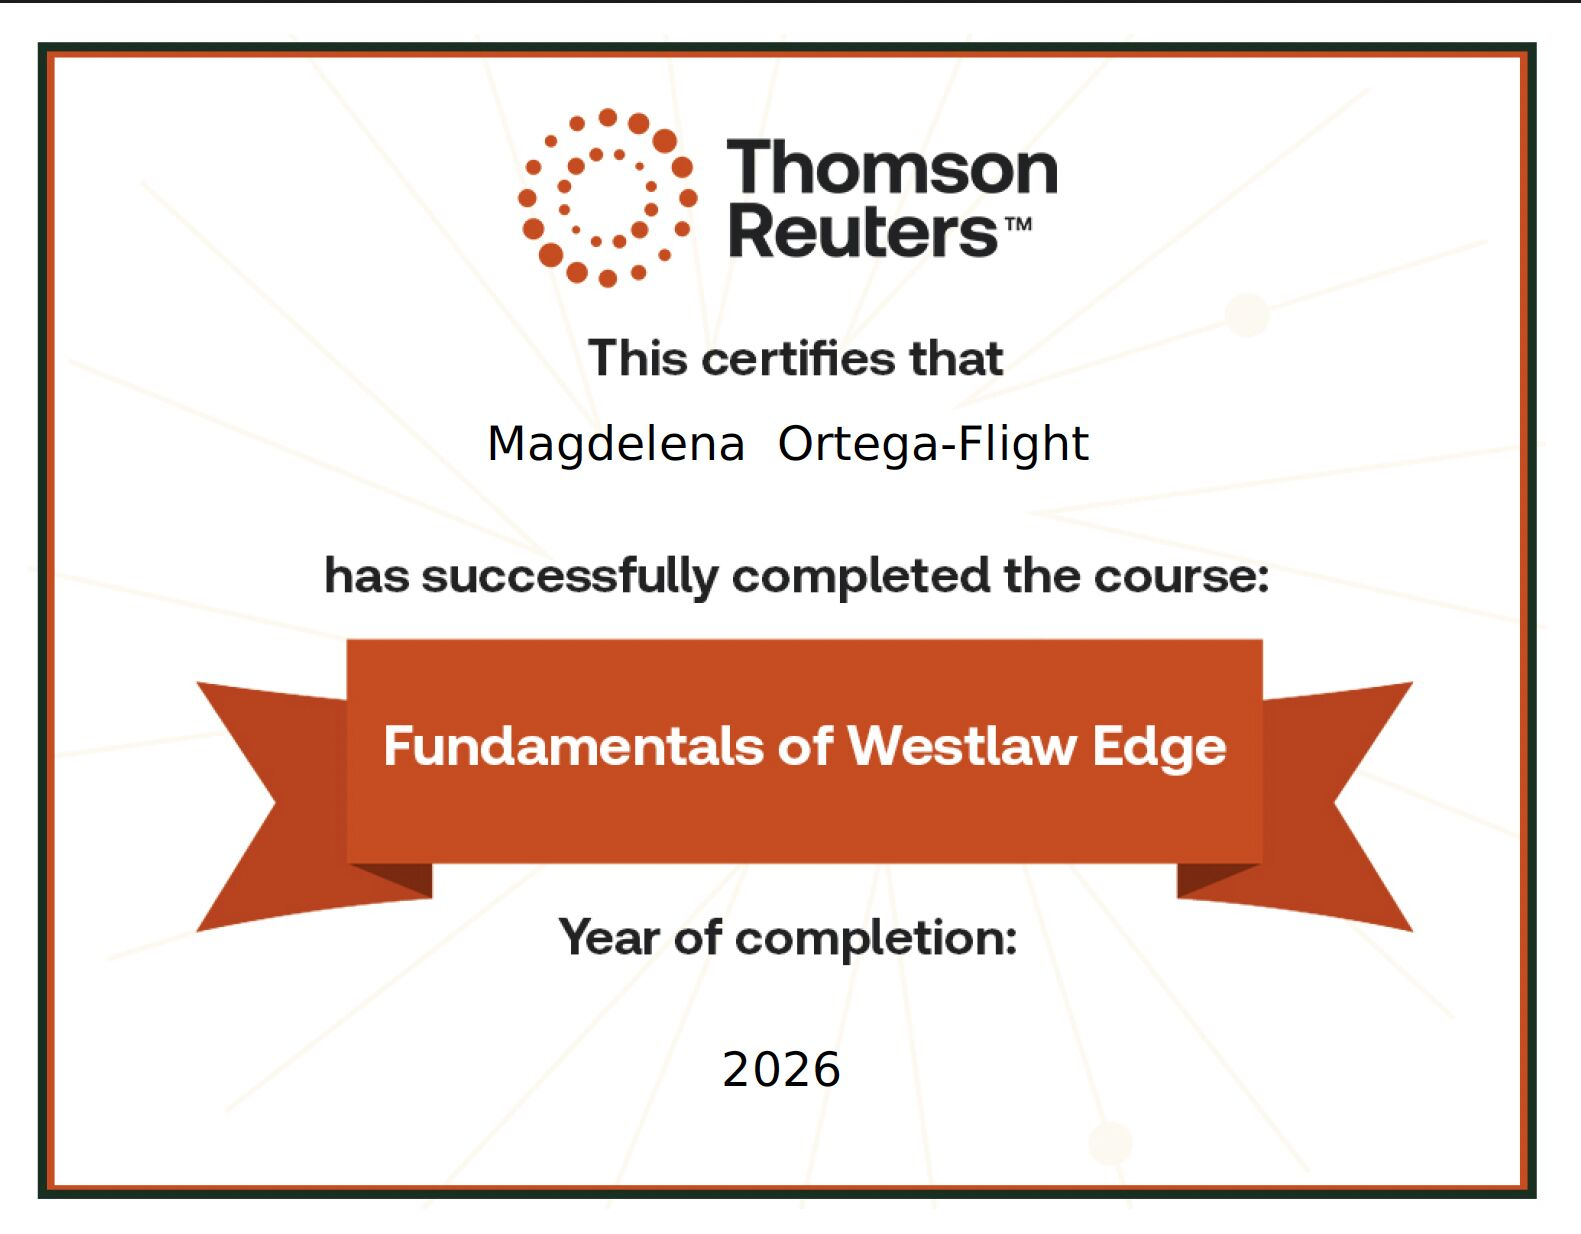
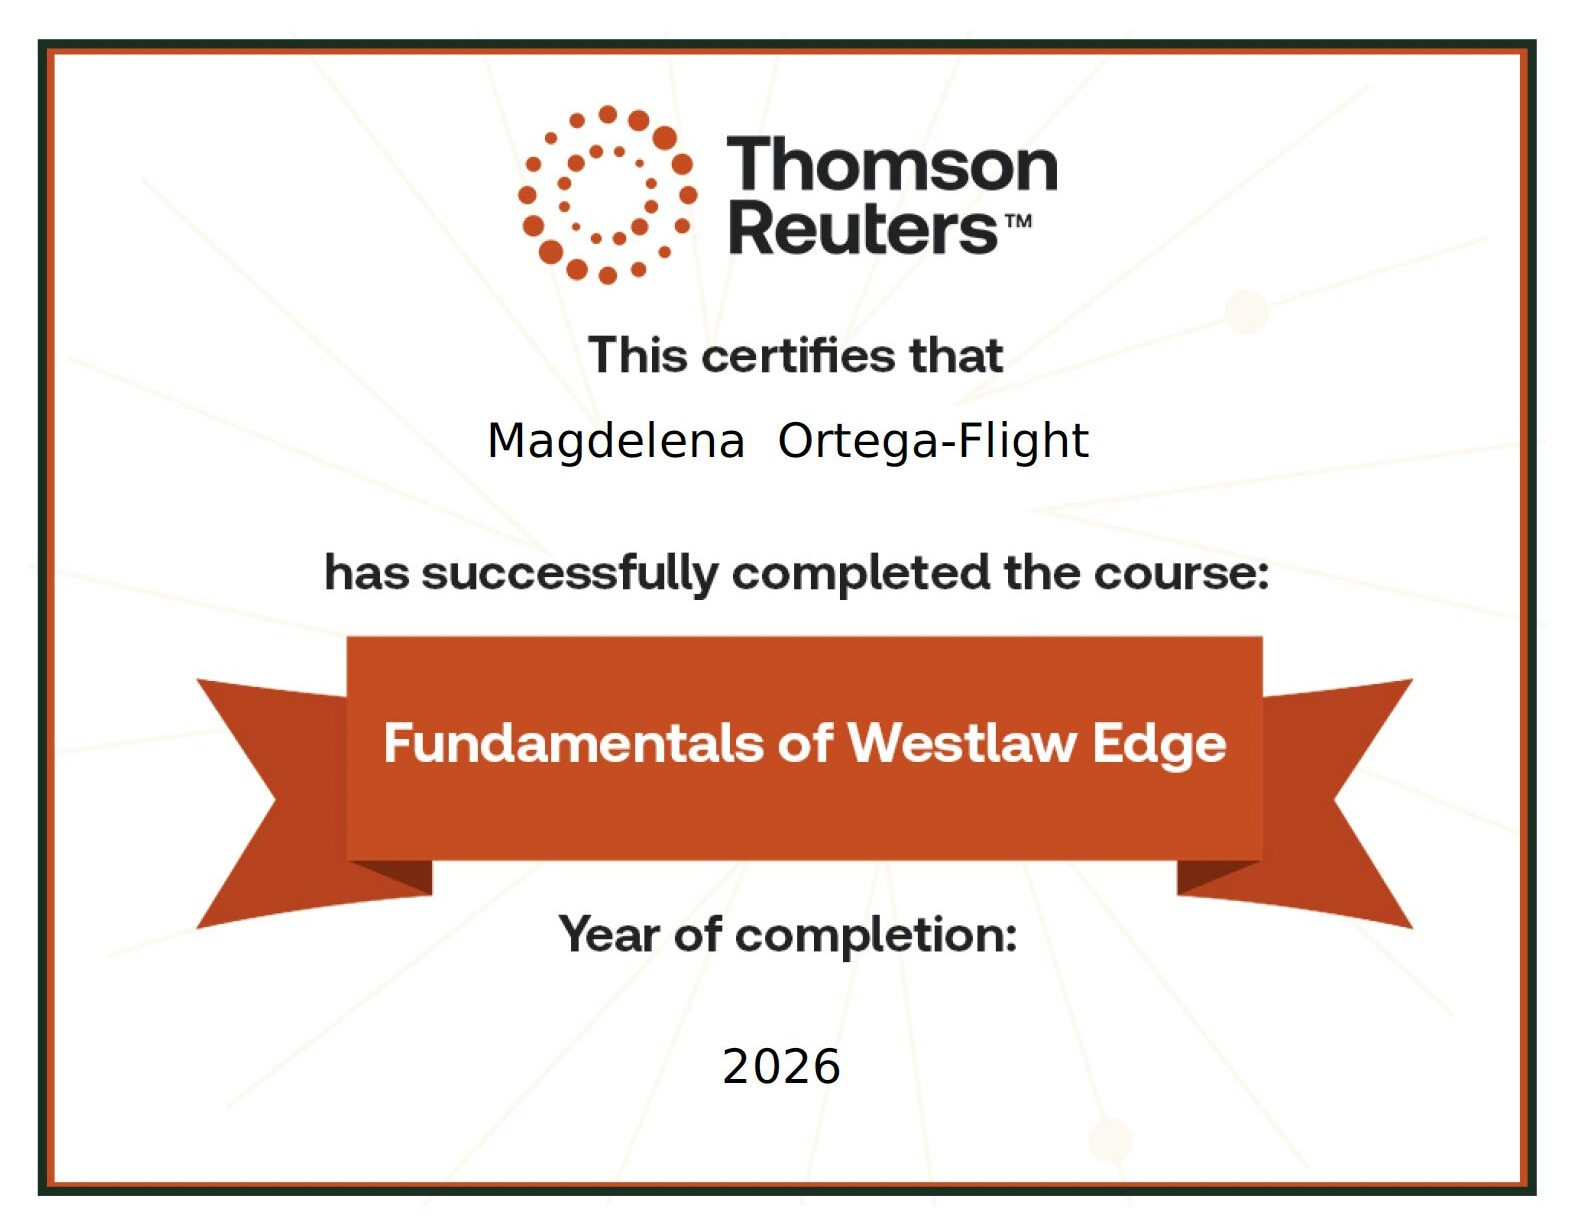
Stop the certificate scan looking cropped
Two separate causes, neither of them object-fit — the scan was always
shown whole, its rendered aspect matching the file's exactly.

The visible one: the lightbox image carried a 12px corner radius. A
certificate is a bordered document whose frame runs to the edge of the
file, so rounding it sliced that frame at all four corners and read as a
crop. The radius is gone; the panel around it still has one.

The other: the file itself had a 3px black band across the top edge only
— a leftover from the screen capture, with the other three edges plain
white. It sat there as a hard line above the certificate. Those three
rows are trimmed, so the file is 1581x1231 and all four edges are white.

diff --git a/src/style.css b/src/style.css
@@ -101,8 +101,11 @@ button.cert-thumb {
   @apply relative rounded-2xl bg-white p-3 shadow-2xl;
 }
 
+/* No corner radius here. A certificate is a bordered document whose frame runs
+   right to the edge of the file, so rounding the image clips that frame at all
+   four corners and reads as a crop. The panel around it carries the rounding. */
 .cert-dialog__img {
-  @apply block w-full rounded-xl object-contain;
+  @apply block w-full object-contain;
   max-height: 78vh;
 }
 
